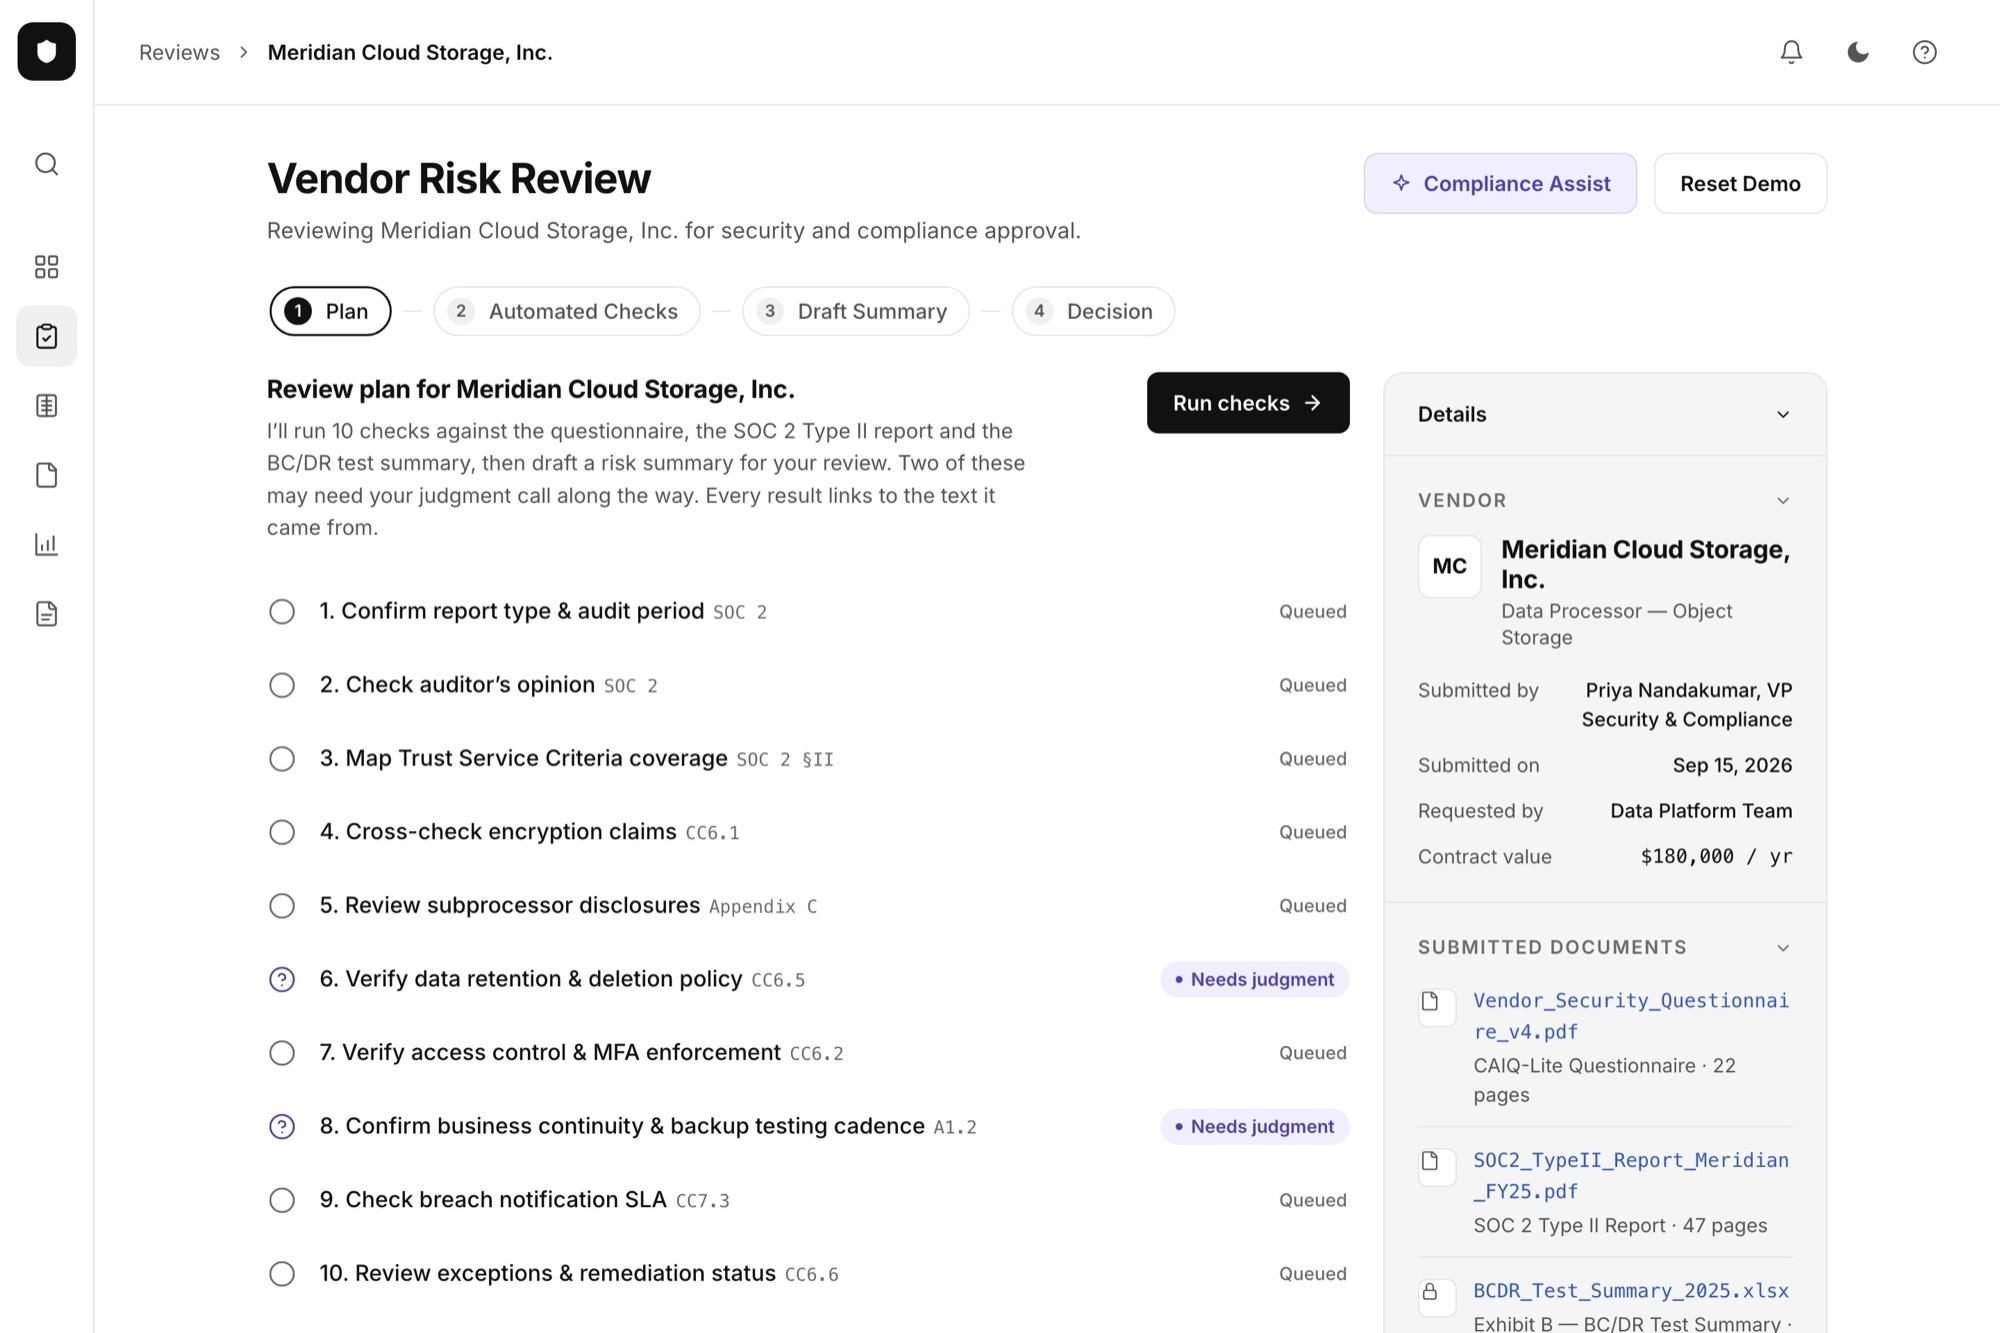
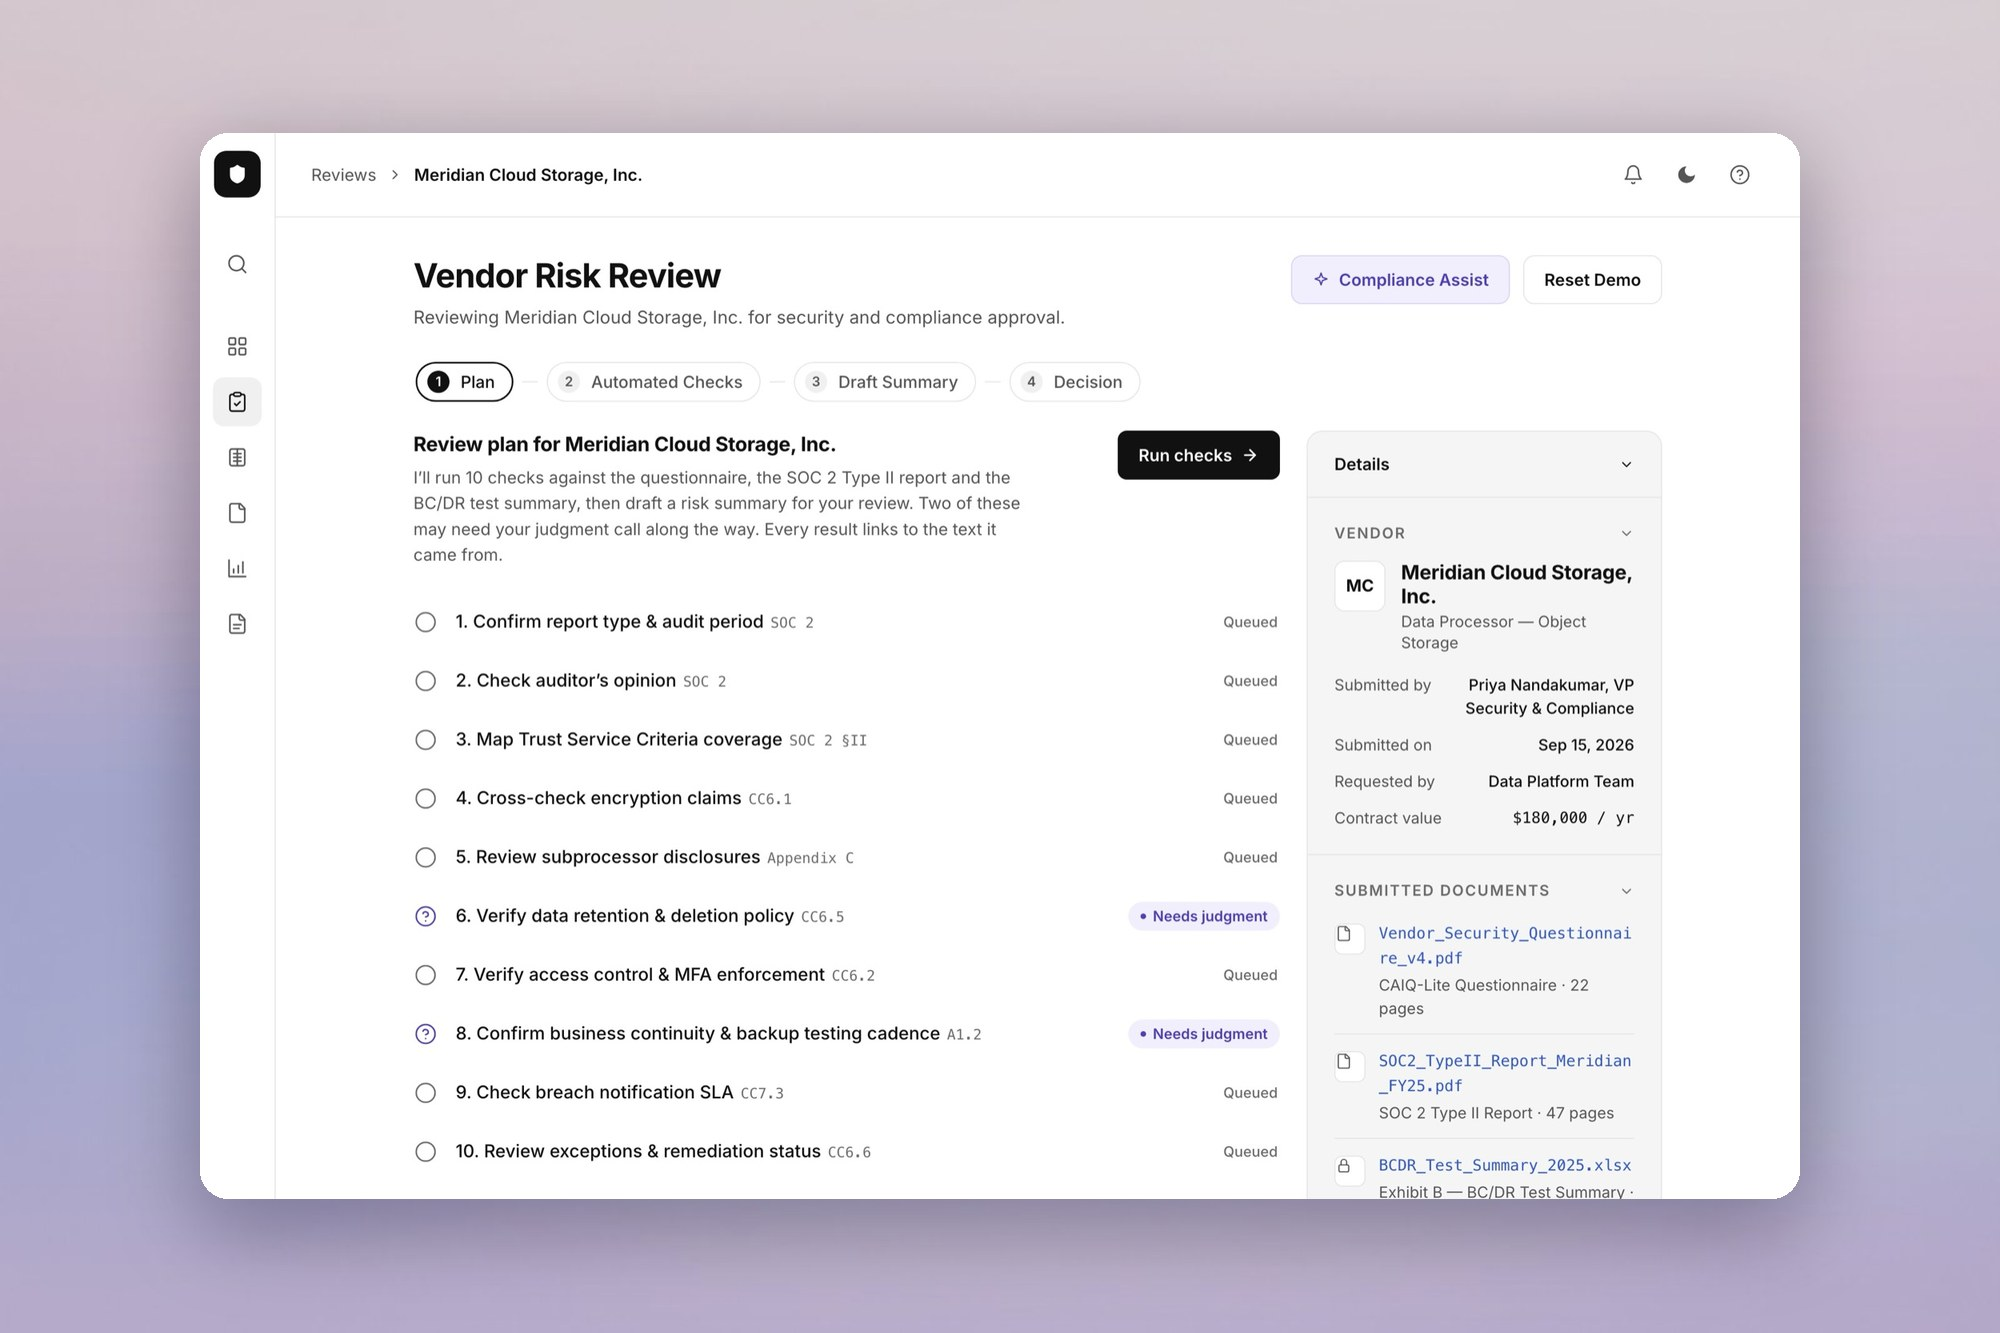
Vendor Risk Review: gradient backdrop for the thumbnail and live prototype
The homepage thumbnail and the prototype at the top of the case study now
sit as a window on the same gradient the other case studies use.

Claude-Session: https://claude.ai/code/session_01FrbVqCQeg1JV2RFkwyn6SN

diff --git a/assets/css/styles.css b/assets/css/styles.css
@@ -259,6 +259,16 @@ img, video { display: block; max-width: 100%; }
 }
 .cs-cover { background: var(--band); padding: 56px var(--pad); }
 .media--embed { display: block; aspect-ratio: 3 / 2; border: 0; overflow: hidden; }
+/* a live embed shown as a window floating on the shared gradient backdrop */
+.media-frame {
+  aspect-ratio: 3 / 2; overflow: hidden; display: grid; place-items: center;
+  background: #E6E3F4 url(../images/embed-bg.jpg) center / cover no-repeat;
+}
+.media-frame iframe {
+  /* full size, then scaled down: the embed keeps its desktop layout inside the smaller window */
+  width: 100%; height: 100%; transform: scale(.8); border: 0; display: block; background: #FFFFFF; border-radius: 18px;
+  box-shadow: 0 32px 75px -22px rgba(40,30,80,.38);
+}
 .media--embed.media--portrait { aspect-ratio: 4 / 5; }
 .media--embed.media--43 { aspect-ratio: 4 / 3; }
 .cs-media { padding: 0 var(--pad) 56px; }
@@ -367,6 +377,8 @@ img, video { display: block; max-width: 100%; }
   .cs-hero__lede { font-size: 18px; }
   .meta { grid-template-columns: 1fr 1fr; gap: 20px; padding-bottom: 36px; }
   .cs-cover { padding: 24px var(--pad); }
+  .media-frame { aspect-ratio: 4 / 5; }
+  .media-frame iframe { width: 90%; height: 92%; transform: none; border-radius: 10px; }
   .cs-media { padding-bottom: 40px; }
   .cs-media--pair { grid-template-columns: 1fr; }
   .cs-section { grid-template-columns: 1fr; gap: 16px; padding-top: 48px; padding-bottom: 36px; }

diff --git a/vendor-risk-review.html b/vendor-risk-review.html
@@ -27,7 +27,7 @@
 <link rel="preconnect" href="https://fonts.googleapis.com">
 <link rel="preconnect" href="https://fonts.gstatic.com" crossorigin>
 <link href="https://fonts.googleapis.com/css2?family=Instrument+Serif:ital@0;1&family=IBM+Plex+Sans:wght@400;450;500;600&family=IBM+Plex+Mono:wght@400;500&display=swap" rel="stylesheet">
-<link rel="stylesheet" href="assets/css/styles.css?v=12">
+<link rel="stylesheet" href="assets/css/styles.css?v=14">
 <script src="assets/js/reveal.js?v=2" defer></script>
 </head>
 <body>
@@ -62,7 +62,9 @@
   </div>
 
   <div class="cs-cover">
-    <iframe class="media media--embed" src="vendor-risk-review-prototype.html" title="Vendor Risk Review prototype: press Run checks to watch the agent work, then rule on the contradiction" loading="lazy"></iframe>
+    <div class="media media-frame">
+      <iframe src="vendor-risk-review-prototype.html" title="Vendor Risk Review prototype: press Run checks to watch the agent work, then rule on the contradiction" loading="lazy"></iframe>
+    </div>
   </div>
 
   <section class="cs-section">

diff --git a/index.html b/index.html
@@ -27,7 +27,7 @@
 <link rel="preconnect" href="https://fonts.googleapis.com">
 <link rel="preconnect" href="https://fonts.gstatic.com" crossorigin>
 <link href="https://fonts.googleapis.com/css2?family=Instrument+Serif:ital@0;1&family=IBM+Plex+Sans:wght@400;450;500;600&family=IBM+Plex+Mono:wght@400;500&display=swap" rel="stylesheet">
-<link rel="stylesheet" href="assets/css/styles.css?v=12">
+<link rel="stylesheet" href="assets/css/styles.css?v=14">
 <script src="assets/js/network-field.js?v=8" defer></script>
 </head>
 <body>
@@ -217,7 +217,7 @@
       </div>
     </div>
     <div class="project__band">
-      <img src="assets/images/vrr-cover.jpg" width="2000" height="1333" loading="lazy" alt="Vendor Risk Review prototype: the review plan with 10 checks, 2 marked Needs judgment">
+      <img src="assets/images/vrr-cover.jpg?v=2" width="2000" height="1333" loading="lazy" alt="Vendor Risk Review prototype: the review plan with 10 checks, 2 marked Needs judgment">
     </div>
   </a>
 

diff --git a/ai-applied-outreach.html b/ai-applied-outreach.html
@@ -27,7 +27,7 @@
 <link rel="preconnect" href="https://fonts.googleapis.com">
 <link rel="preconnect" href="https://fonts.gstatic.com" crossorigin>
 <link href="https://fonts.googleapis.com/css2?family=Instrument+Serif:ital@0;1&family=IBM+Plex+Sans:wght@400;450;500;600&family=IBM+Plex+Mono:wght@400;500&display=swap" rel="stylesheet">
-<link rel="stylesheet" href="assets/css/styles.css?v=12">
+<link rel="stylesheet" href="assets/css/styles.css?v=14">
 <script src="assets/js/reveal.js?v=2" defer></script>
 </head>
 <body>

diff --git a/ai-assisted-intake-form.html b/ai-assisted-intake-form.html
@@ -27,7 +27,7 @@
 <link rel="preconnect" href="https://fonts.googleapis.com">
 <link rel="preconnect" href="https://fonts.gstatic.com" crossorigin>
 <link href="https://fonts.googleapis.com/css2?family=Instrument+Serif:ital@0;1&family=IBM+Plex+Sans:wght@400;450;500;600&family=IBM+Plex+Mono:wght@400;500&display=swap" rel="stylesheet">
-<link rel="stylesheet" href="assets/css/styles.css?v=12">
+<link rel="stylesheet" href="assets/css/styles.css?v=14">
 <script src="assets/js/reveal.js?v=2" defer></script>
 </head>
 <body>

diff --git a/natural-language-filter.html b/natural-language-filter.html
@@ -27,7 +27,7 @@
 <link rel="preconnect" href="https://fonts.googleapis.com">
 <link rel="preconnect" href="https://fonts.gstatic.com" crossorigin>
 <link href="https://fonts.googleapis.com/css2?family=Instrument+Serif:ital@0;1&family=IBM+Plex+Sans:wght@400;450;500;600&family=IBM+Plex+Mono:wght@400;500&display=swap" rel="stylesheet">
-<link rel="stylesheet" href="assets/css/styles.css?v=12">
+<link rel="stylesheet" href="assets/css/styles.css?v=14">
 <script src="assets/js/reveal.js?v=2" defer></script>
 </head>
 <body>
